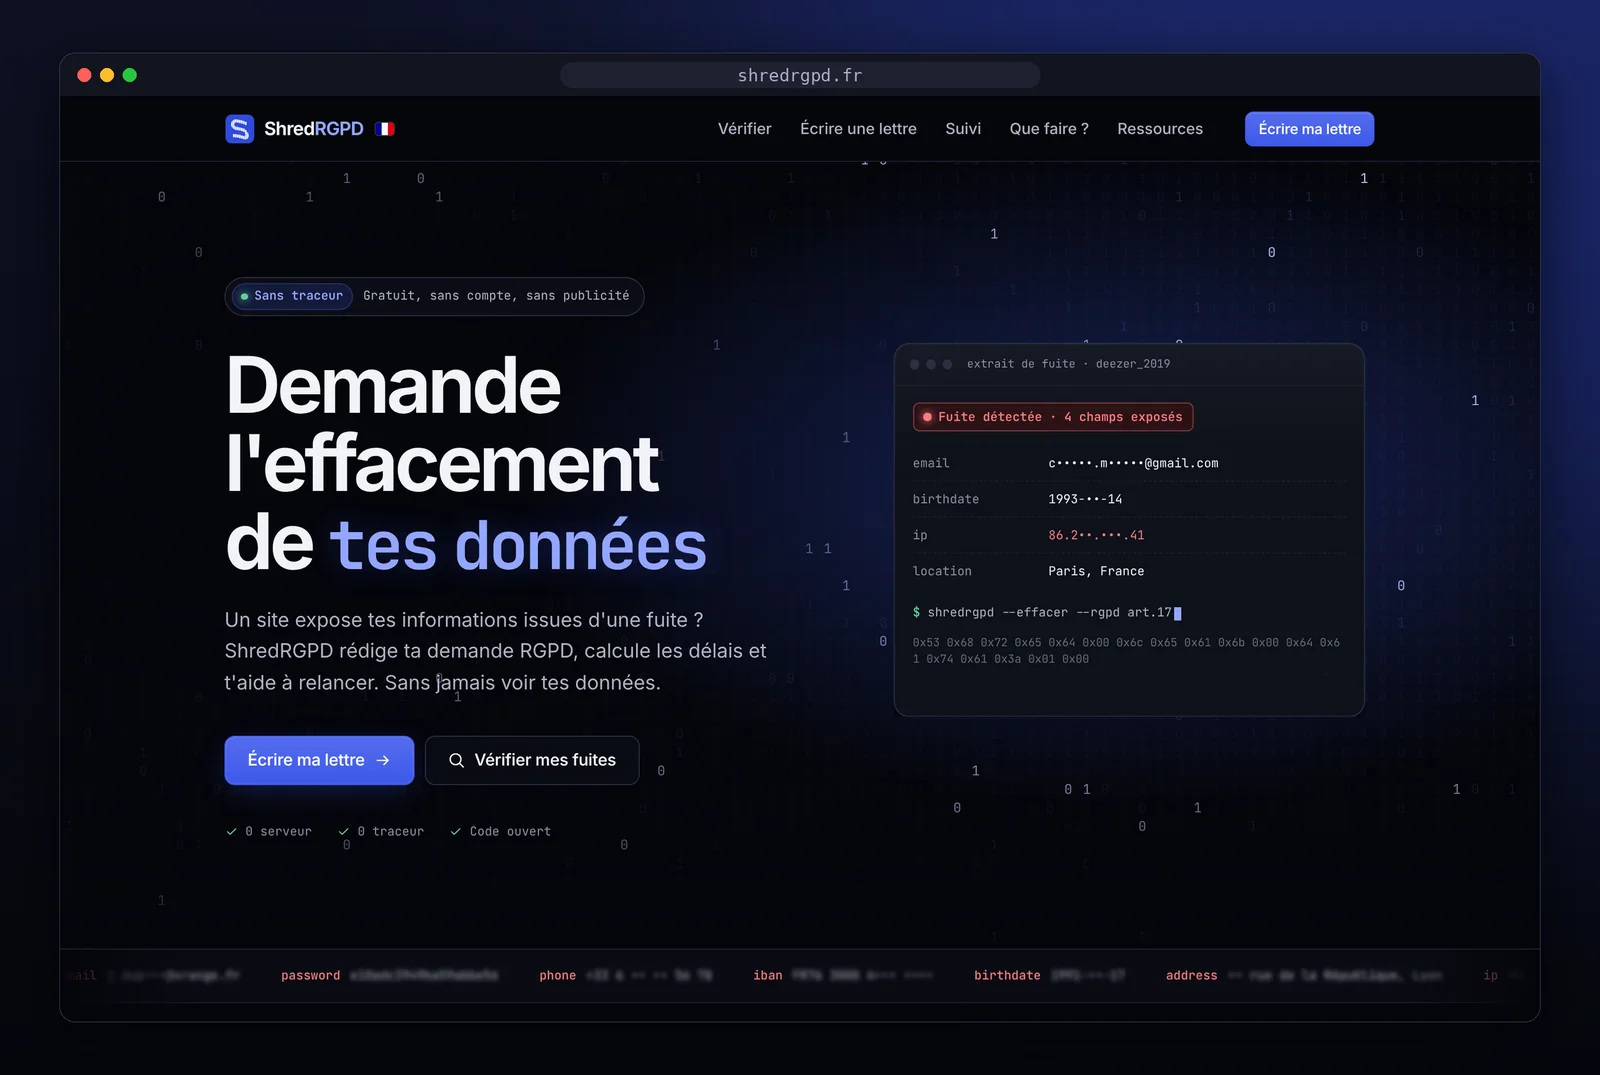
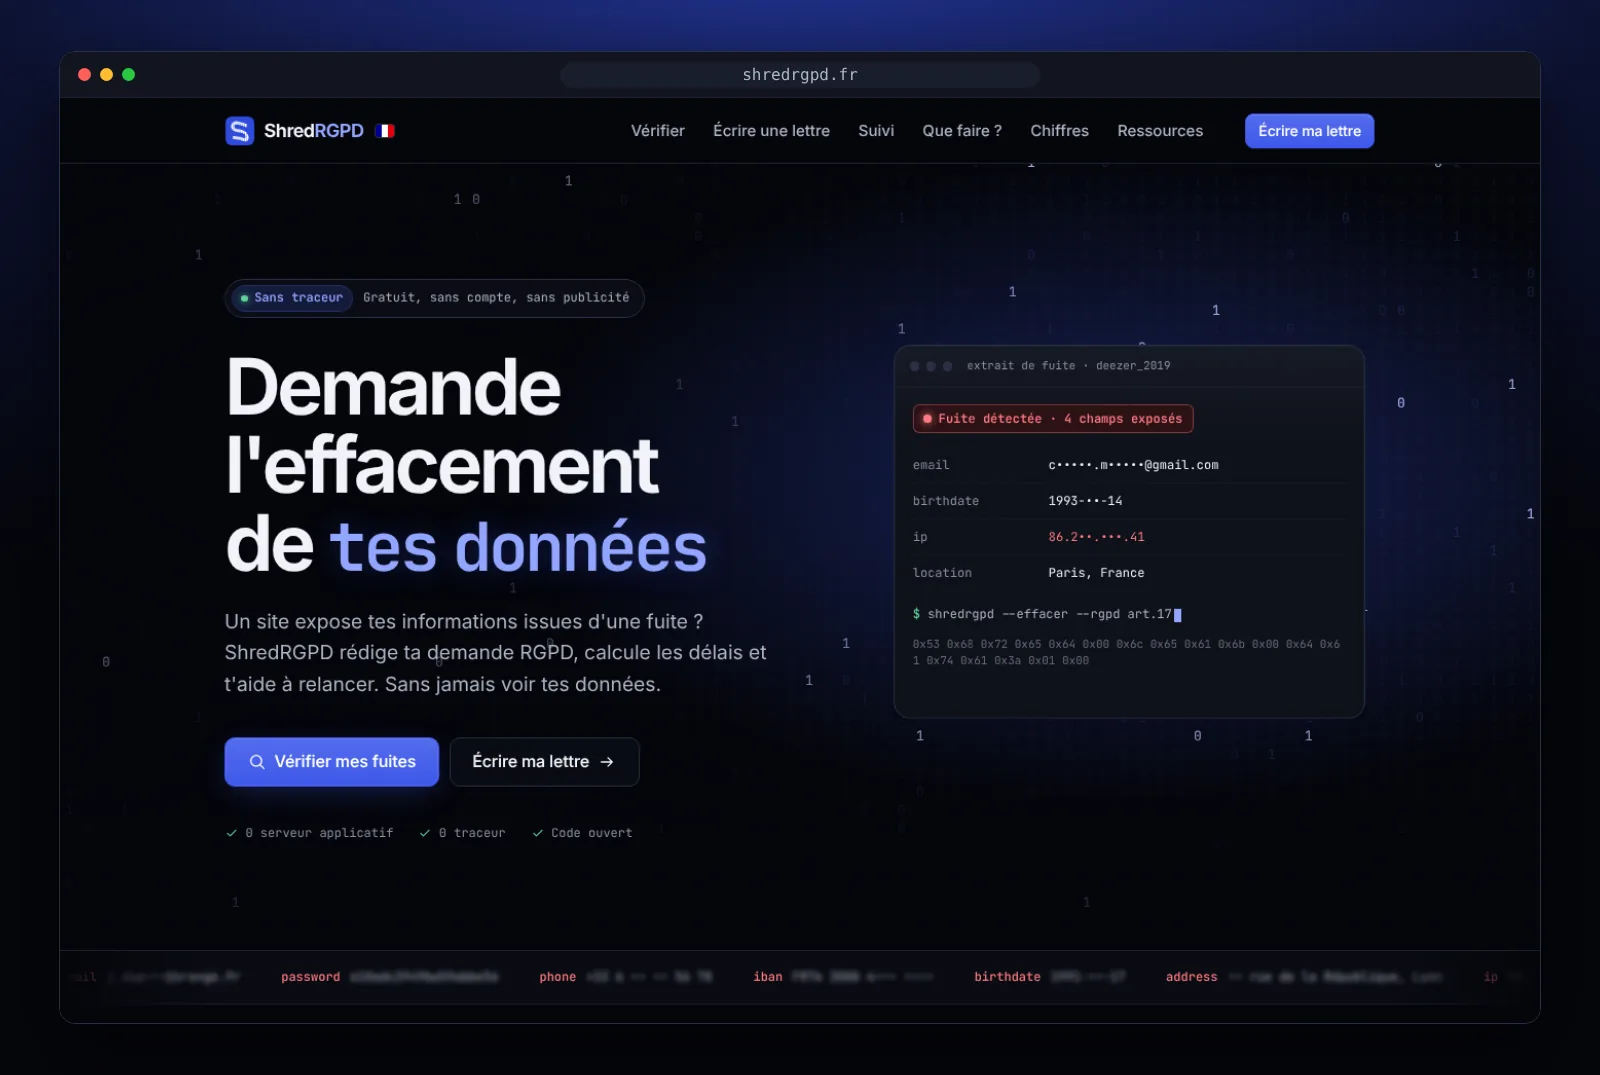
Fuites non vérifiées : pas de lettre en avant ; README à jour
Pages de fuite : quand Have I Been Pwned n'a pas pu confirmer que les
données viennent de l'entreprise nommée (IsVerified: false, aujourd'hui
Pemiblanc), « À qui écrire ? » remplace « Écris à … » : peut-être
personne de responsable, priorité au changement de mots de passe,
lettres en option secondaire. Le plan d'action perd l'étape « écrire
aux entreprises » et la description de la page ne promet plus de
réponse. Les fuites vérifiées ne changent pas. Testé (actionPlan,
breachPages) ; vérifié dans Chromium sur Pemiblanc et Free, axe : 0
violation.

README : section « Les fuites en chiffres » avec capture, page « Suivre
les nouvelles fuites » au lieu du lien vers le XML brut, fuites non
vérifiées, capture de l'accueil refaite (bouton Vérifier en premier,
« 0 serveur applicatif », menu avec Chiffres).

Claude-Session: https://claude.ai/code/session_01XCRyGWH1JpjicupbovZvVj

diff --git a/src/pages/BreachPage.tsx b/src/pages/BreachPage.tsx
@@ -131,26 +131,58 @@ export function BreachPage({ slug }: { slug: string }) {
             </p>
 
             <h2>Que faire maintenant ?</h2>
-            <ActionPlan dataClasses={breach.dataClasses} />
+            <ActionPlan dataClasses={breach.dataClasses} write={breach.verified} />
             <p>
               Un message qui cite la fuite, un appel « de ta banque » ? Vois les bons réflexes sur{' '}
               <a href={href('/que-faire')}>Que faire ?</a>.
             </p>
 
-            <h2>Écris à {breach.title}</h2>
-            <p>
-              Le RGPD te permet de demander à l'entreprise ce qu'elle détient sur toi et ce qui a fuité (articles 15 et
-              34), ou d'effacer tes données (article 17). Elle a un mois pour te répondre (article 12.3).
-            </p>
-            <p className="btn-row">
-              <a className="btn btn--primary" href={href('/lettre', breachLetterQuery(breach, 'acces'))}>
-                Demander ce qui a fuité
-                <Icon name="arrow" size={18} />
-              </a>
-              <a className="btn" href={href('/lettre', breachLetterQuery(breach, 'effacement'))}>
-                Demander l'effacement
-              </a>
-            </p>
+            {breach.verified ? (
+              <>
+                <h2>Écris à {breach.title}</h2>
+                <p>
+                  Le RGPD te permet de demander à l'entreprise ce qu'elle détient sur toi et ce qui a fuité (articles 15
+                  et 34), ou d'effacer tes données (article 17). Elle a un mois pour te répondre (article 12.3).
+                </p>
+                <p className="btn-row">
+                  <a className="btn btn--primary" href={href('/lettre', breachLetterQuery(breach, 'acces'))}>
+                    Demander ce qui a fuité
+                    <Icon name="arrow" size={18} />
+                  </a>
+                  <a className="btn" href={href('/lettre', breachLetterQuery(breach, 'effacement'))}>
+                    Demander l'effacement
+                  </a>
+                </p>
+              </>
+            ) : (
+              <>
+                <h2>À qui écrire ?</h2>
+                <p>
+                  Have I Been Pwned n'a pas pu confirmer que ces données viennent de {breach.domain || breach.title}. Il
+                  n'y a donc peut-être pas d'entreprise responsable à qui écrire : une lettre risque de rester sans
+                  réponse.
+                </p>
+                {breach.dataClasses.includes('Passwords') && (
+                  <p>
+                    La priorité : change le mot de passe de chaque compte où tu utilisais celui qui a fui.{' '}
+                    <a href={href('/verifier', { parcours: 'mot-de-passe' })}>Teste tes mots de passe</a> sans les
+                    confier à personne.
+                  </p>
+                )}
+                <p>
+                  Si tu penses que {breach.domain || breach.title} détient bien tes données, tu peux quand même lui
+                  demander ce qu'il a sur toi (article 15 du RGPD) ou l'effacement (article 17).
+                </p>
+                <p className="btn-row">
+                  <a className="btn" href={href('/lettre', breachLetterQuery(breach, 'acces'))}>
+                    Demander ce qui a fuité
+                  </a>
+                  <a className="btn" href={href('/lettre', breachLetterQuery(breach, 'effacement'))}>
+                    Demander l'effacement
+                  </a>
+                </p>
+              </>
+            )}
             <p className="hint">
               {contact ? (
                 <>

diff --git a/src/lib/actionPlan.ts b/src/lib/actionPlan.ts
@@ -102,8 +102,11 @@ const WRITE: ActionItem = {
   detail: "Elles doivent te répondre dans un délai d'un mois (article 12.3 du RGPD).",
 };
 
-/** Actions à mener pour un ensemble de types de données exposées, sans doublon. */
-export function buildActionPlan(dataClasses: string[]): ActionItem[] {
+/**
+ * Actions à mener pour un ensemble de types de données exposées, sans doublon.
+ * `write: false` retire l'étape « écrire aux entreprises » (fuite non confirmée : peut-être personne à qui écrire).
+ */
+export function buildActionPlan(dataClasses: string[], { write = true } = {}): ActionItem[] {
   if (dataClasses.length === 0) return [];
   const items: ActionItem[] = [];
   for (const rule of RULES) {
@@ -111,7 +114,7 @@ export function buildActionPlan(dataClasses: string[]): ActionItem[] {
       for (const item of rule.items) if (!items.some((i) => i.id === item.id)) items.push(item);
     }
   }
-  items.push(WRITE);
+  if (write) items.push(WRITE);
   return items;
 }
 

diff --git a/src/lib/breachPages.ts b/src/lib/breachPages.ts
@@ -83,7 +83,11 @@ export function breachPageMeta(breach: Breach, slug: string): BreachPageMeta {
   return {
     path: BREACH_PATH_PREFIX + slug,
     title: `Fuite ${breach.title} (${formatMonthFr(breach.date)}) : que faire ? · ShredRGPD`,
-    description: `Fuite de données ${breach.title} du ${formatLongFr(breach.date)} : ${accounts}${types}. Vérifie si tu es concerné et demande à l'entreprise ce qu'elle détient sur toi, avec une lettre RGPD gratuite.`,
+    description: `Fuite de données ${breach.title} du ${formatLongFr(breach.date)} : ${accounts}${types}. ${
+      breach.verified
+        ? "Vérifie si tu es concerné et demande à l'entreprise ce qu'elle détient sur toi, avec une lettre RGPD gratuite."
+        : "Fuite non confirmée par l'entreprise : vérifie si tu es concerné et protège tes comptes."
+    }`,
     ...(breach.addedDate ? { lastmod: breach.addedDate } : {}),
   };
 }

diff --git a/src/components/ActionPlan.tsx b/src/components/ActionPlan.tsx
@@ -4,10 +4,10 @@ import { buildActionPlan, loadDone, PLAN_STORAGE_KEY } from '../lib/actionPlan';
 import { Icon } from './Icon';
 
 /** Plan d'action à cocher, adapté aux données exposées ; progression gardée dans le navigateur. */
-export function ActionPlan({ dataClasses }: { dataClasses: string[] }) {
+export function ActionPlan({ dataClasses, write = true }: { dataClasses: string[]; write?: boolean }) {
   const id = useId();
   const [done, setDone] = useState<string[]>(() => loadDone(readStorage(PLAN_STORAGE_KEY)));
-  const items = buildActionPlan(dataClasses);
+  const items = buildActionPlan(dataClasses, { write });
   if (items.length === 0) return null;
   const count = items.filter((i) => done.includes(i.id)).length;
 

diff --git a/src/lib/actionPlan.test.ts b/src/lib/actionPlan.test.ts
@@ -2,6 +2,11 @@ import { describe, expect, it } from 'vitest';
 import { buildActionPlan, loadDone } from './actionPlan';
 
 describe('buildActionPlan', () => {
+  it("retire l'étape « écrire » sur demande (fuite non confirmée)", () => {
+    expect(buildActionPlan(['Passwords']).map((i) => i.id)).toContain('ecrire');
+    expect(buildActionPlan(['Passwords'], { write: false }).map((i) => i.id)).not.toContain('ecrire');
+  });
+
   it('adapte les actions aux données exposées, sans doublon', () => {
     const ids = buildActionPlan(['Email addresses', 'Passwords', 'Password hints', 'Credit cards']).map((i) => i.id);
     expect(ids).toEqual(['mdp-changer', 'mdp-2fa', 'mdp-unique', 'email-hameconnage', 'banque', 'ecrire']);

diff --git a/src/lib/breachPages.test.ts b/src/lib/breachPages.test.ts
@@ -76,6 +76,12 @@ describe('pages de fuite', () => {
     expect(allBreachPageMeta(CATALOG.breaches).map((m) => m.path)).toHaveLength(4);
   });
 
+  it("ne promet pas de réponse de l'entreprise pour une fuite non vérifiée", () => {
+    const unverified = { ...CATALOG.breaches[0]!, verified: false };
+    expect(breachPageMeta(unverified, 'free').description).toContain("Fuite non confirmée par l'entreprise");
+    expect(breachPageMeta(unverified, 'free').description).not.toContain('demande à l');
+  });
+
   it('formate le mois en abrégé', () => {
     expect(formatMonthFr('2024-10-17')).toBe('oct. 2024');
     expect(formatMonthFr('2023-02-01')).toBe('févr. 2023');

diff --git a/CLAUDE.md b/CLAUDE.md
@@ -35,7 +35,7 @@ npx prettier --write "src/**/*.{ts,tsx}"   # mise en forme (.prettierrc)
 - `src/security.ts` : source unique de la CSP. `vite.config.ts` l'injecte en `<meta>`, `vercel.json` l'envoie en en-tête HTTP (avec `frame-ancestors`) ; `security.test.ts` vérifie qu'elles restent alignées.
 - Page « Les fuites en chiffres » (`src/pages/Stats.tsx`, `/chiffres`), tableau de bord interactif : filtres Année et Donnée exposée en tête (aussi par clic sur une colonne d'année ou une ligne de données, second clic pour annuler ; chaque graphique tient compte de l'autre filtre, pas du sien), gardés dans le fragment (`#annee=2024&donnee=Passwords`, `replaceState`, valeurs inconnues ignorées, `#contenu` respecté) ; chiffres clés, fuites par année avec infobulle au survol et au clavier (CSS seul), données les plus exposées, plus grosses fuites (liens vers leurs pages), tableau triable de toutes les fuites (colonne des données masquée sous 640 px), délai médian avant l'arrivée dans HIBP, et les limites de lecture (« française » estimée, seules les fuites connues de HIBP, des comptes et non des personnes). Graphiques en HTML (texte réel) et barres en SVG décoratif, tailles en attributs (la CSP interdit les styles en ligne), une série par graphique en `--brand-hover` (contraste ≥ 3:1 vérifié), blocs sans cadre. Liens depuis le menu (« Chiffres »), l'accueil (sous les dernières fuites) et le pied de page. Pré-rendue sans filtre. Audit axe : 0 violation le 7 octobre 2026, sans filtre, filtrée et sans résultat, à 1440 et 390 px. Pour la développer en local sans accès à HIBP, le catalogue peut être repris du déploiement Vercel (fichier `assets/breaches.generated-*.js`).
 - Page « Suivre les nouvelles fuites » (`src/pages/NewBreaches.tsx`, `/nouvelles-fuites`) : ce qu'est un flux, adresse de `fuites.xml` à copier, quelques lecteurs gratuits (Feedly, Inoreader, NetNewsWire, Thunderbird, sans lien avec ShredRGPD), rappel du bouton « Me signaler les nouvelles fuites » de Vérifier, dernières fuites françaises. Le pied de page, l'accueil et les pages de fuite y mènent au lieu d'ouvrir le XML brut ; `fuites.xml` reste lié depuis la page et dans chaque `<head>`. Pas de feuille XSLT (Google a annoncé vouloir retirer XSLT de Chrome).
-- Pages de fuite (`src/pages/BreachPage.tsx`) : une par fuite française avec un domaine (`pageBreaches` ; les compilations sans entreprise, comme French Citizens, en sont exclues), adresse tirée du titre (`/fuite/free`, nom HIBP en cas de doublon). `vite.config.ts` lit le catalogue au build : une page HTML par fuite (`fuite/free.html`) ajoutée au sitemap, le flux Atom `fuites.xml` (lien dans chaque `<head>`, l'accueil et le pied de page) et les modules virtuels `virtual:catalog-summary` (chiffres et 6 dernières fuites françaises pour l'accueil) et `virtual:breach-stats` (fiches légères des fuites pour la page `/chiffres`, qui calcule ses chiffres dans le navigateur), calculés au build sans charger tout le catalogue (types dans `src/virtual.d.ts`). Sans catalogue : ni pages, ni flux, bloc de l'accueil masqué.
+- Pages de fuite (`src/pages/BreachPage.tsx`) : une par fuite française avec un domaine. Fuite non vérifiée par HIBP (`IsVerified: false`, aujourd'hui Pemiblanc seule) : « À qui écrire ? » remplace « Écris à … » (peut-être personne de responsable, priorité aux mots de passe, lettres en option secondaire), plan d'action sans l'étape « écrire » (`buildActionPlan(…, { write: false })`), description de page sans promesse de réponse. Pemiblanc reste dans les pages et les chiffres (choix de l'auteur, 7 octobre 2026) (`pageBreaches` ; les compilations sans entreprise, comme French Citizens, en sont exclues), adresse tirée du titre (`/fuite/free`, nom HIBP en cas de doublon). `vite.config.ts` lit le catalogue au build : une page HTML par fuite (`fuite/free.html`) ajoutée au sitemap, le flux Atom `fuites.xml` (lien dans chaque `<head>`, l'accueil et le pied de page) et les modules virtuels `virtual:catalog-summary` (chiffres et 6 dernières fuites françaises pour l'accueil) et `virtual:breach-stats` (fiches légères des fuites pour la page `/chiffres`, qui calcule ses chiffres dans le navigateur), calculés au build sans charger tout le catalogue (types dans `src/virtual.d.ts`). Sans catalogue : ni pages, ni flux, bloc de l'accueil masqué.
 - `src/seo.ts` : titre, description et aperçu de chaque page (testé : une entrée par route de `PUBLIC_ROUTES`), données structurées JSON-LD de l'accueil (`WebSite` et `WebApplication` gratuite ; bloc de données, non exécuté, donc compatible avec la CSP) et `<lastmod>` des pages de fuite dans le sitemap (date d'ajout à HIBP). Le plugin `seo` de `vite.config.ts` génère une page HTML par adresse (`verifier.html`…, servies sur `/verifier` grâce à `cleanUrls` dans `vercel.json`), un `404.html` non indexé, `robots.txt` et `sitemap.xml`. `public/og.png` est l'image d'aperçu 1200×630.
 - Pré-rendu : `npm run build` lance `scripts/prerender.mjs` après `vite build`. Il charge `src/prerender.tsx` avec Vite (`renderToString` de l'application, chemin fixé par `setServerLocation` du routeur, catalogue chargé avant) et écrit le contenu de chaque page dans son fichier HTML, à la place de `<div id="root"></div>`, pour les moteurs qui exécutent mal le JavaScript. `/suivi` n'est pas pré-rendu (contenu propre au navigateur). Les attributs `style` sont retirés du HTML pré-rendu : la CSP (`style-src 'self'`) les bloquerait. `main.tsx` remplace ce contenu par l'application (`createRoot`, pas d'hydratation) ; sur une page de fuite, il charge d'abord le catalogue (`loadedBreachCatalog`) pour ne pas afficher « Chargement… ». Testé dans `src/prerender.test.ts` ; vérifié dans Chromium : contenu lisible sans JavaScript, aucune erreur ni violation CSP avec.
 - `.github/workflows/refresh-breaches.yml` : redéploiement quotidien (5 h 17 UTC) pour rafraîchir le catalogue HIBP, via le secret GitHub `VERCEL_DEPLOY_HOOK` (à créer par l'auteur ; sans lui, le workflow ne fait rien). Injecte aussi au build la CSP (`connect-src https://api.pwnedpasswords.com` seulement, `font-src 'self'`) et désactive l'intégration des fichiers en `data:` (`assetsInlineLimit: 0`), sinon la CSP bloque les petites polices.
@@ -68,7 +68,7 @@ Fait :
 - pages ressources et à propos, logo, animation d'accueil (fiche et aperçu de recherche avec de vraies fuites du catalogue HIBP : Deezer, Free, La Poste Mobile, ActMobile ; personne fictive, valeurs masquées) ;
 - vidéo : une seule vidéo de présentation (principe en 45 s, sans la démo), en lecture automatique et en boucle sur l'accueil, avec contrôles sur la page Ressources ;
 - accueil « Les dernières fuites en France » (vrais chiffres du catalogue), pages par fuite française, flux Atom, lien « Une erreur, une idée ? » vers l'auteur ; suivi : demande satisfaite mise en avant, relance qui garde le contexte « violation », y compris pour une demande ajoutée à la main (choix « Situation » du formulaire, libellés partagés `CONTEXT_LABELS` de `letters.ts`, affiché sur la fiche) ; les demandes ajoutées avant le 7 octobre 2026 sans contexte repartent en « exposition » ;
-- CI GitHub Actions ; déploiement Vercel depuis `main` (`vercel.json`). Mise à jour quotidienne du catalogue en service (hebdomadaire jusqu'au 6 octobre 2026) : secret `VERCEL_DEPLOY_HOOK` créé, premier lancement manuel le 6 octobre 2026 (redéploiement de production, log `[fetch-breaches] 1039 fuites enregistrées dont 30 françaises`). GitHub Pages abandonné au profit de Vercel. Dépôt public depuis le 6 octobre 2026 ; `README.md` présente le projet avec des captures du site dans `docs/images/` (WebP, personne et demandes fictives, vrais logos des fuites).
+- CI GitHub Actions ; déploiement Vercel depuis `main` (`vercel.json`). Mise à jour quotidienne du catalogue en service (hebdomadaire jusqu'au 6 octobre 2026) : secret `VERCEL_DEPLOY_HOOK` créé, premier lancement manuel le 6 octobre 2026 (redéploiement de production, log `[fetch-breaches] 1039 fuites enregistrées dont 30 françaises`). GitHub Pages abandonné au profit de Vercel. Dépôt public depuis le 6 octobre 2026 ; `README.md` présente le projet avec des captures du site dans `docs/images/` (WebP 1600×1075 dans un cadre de fenêtre, personne et demandes fictives, vrais logos des fuites) ; `accueil.webp` refaite et `chiffres.webp` ajoutée le 7 octobre 2026 (Chromium 1440×900, sans logo à télécharger) ; les autres captures montrent l'ancien menu, sans « Chiffres ».
 - Ne jamais ajouter `@vercel/analytics` ni `@vercel/speed-insights` (règle 1).
 
 Vérifié dans Chromium (Playwright) : rendu bureau 1440 px et mobile 390 px, clair, sombre et animations réduites, sans débordement horizontal ; aucune violation CSP ni requête externe ; contrastes des tokens ≥ 4,5:1 (clair, sombre, `.theme-dark`).

diff --git a/README.md b/README.md
@@ -98,9 +98,22 @@ Chaque fuite française a sa page, par exemple [`/fuite/free`](https://shredrgpd
 - une lettre pré-remplie ;
 - une image de partage avec le logo de l'entreprise.
 
-Un [flux RSS](https://shredrgpd.fr/fuites.xml) annonce les nouvelles fuites. La liste se met à jour chaque jour.
+Quand Have I Been Pwned n'a pas pu confirmer qu'une fuite vient de l'entreprise nommée, la page le dit : il n'y a peut-être personne à qui écrire, alors elle met en avant le changement de mots de passe plutôt qu'une lettre.
+
+Pour être prévenu des nouvelles fuites françaises, sans compte ni e-mail, abonne-toi au flux depuis la page [Suivre les nouvelles fuites](https://shredrgpd.fr/nouvelles-fuites). La liste se met à jour chaque jour.
 
 <p align="center"><img src="docs/images/fuite.webp" alt="Page de la fuite Free" width="820"></p>
+
+### Les fuites en chiffres
+
+La page [Chiffres](https://shredrgpd.fr/chiffres) rassemble les fuites françaises connues de Have I Been Pwned :
+- les chiffres clés : nombre de fuites, fuites de plus d'un million de comptes, part avec des données bancaires, délai avant leur arrivée dans le catalogue ;
+- les fuites par année et les données les plus exposées, à filtrer d'un clic ;
+- les plus grosses fuites et le tableau de toutes les fuites, avec un lien vers chaque page.
+
+Les filtres restent dans l'adresse, pour partager une vue. La page rappelle aussi les limites de ces chiffres : « française » est une estimation, seules les fuites connues de Have I Been Pwned comptent, et ce sont des comptes, pas des personnes.
+
+<p align="center"><img src="docs/images/chiffres.webp" alt="Page Chiffres : chiffres clés, fuites par année et infobulle des fuites de 2024" width="820"></p>
 
 ### Sur mobile aussi
 
@@ -127,7 +140,7 @@ ShredRGPD est un site statique : il n'a pas de serveur à lui, et donc rien où 
 ```text
 src/
 ├── lib/          logique pure et testée : lettres, délais, fuites, k-anonymat…
-├── pages/        Accueil, Vérifier, Lettre, Suivi, Que faire ?, pages de fuite…
+├── pages/        Accueil, Vérifier, Lettre, Suivi, Que faire ?, Chiffres, pages de fuite…
 ├── components/   interface
 ├── data/         vidéos, contacts DPO et sites connus (sourcés et datés)
 └── styles/       thème sombre, jetons de couleur
@@ -151,7 +164,7 @@ Avant chaque commit :
 npm run typecheck && npm run lint && npm test && npm run build
 ```
 
-Sans accès réseau, le build continue sans catalogue : la page Vérifier affiche alors « liste indisponible ».
+Sans accès réseau, le build continue sans catalogue : la page Vérifier affiche alors « liste indisponible », et la page Chiffres « chiffres indisponibles ».
 
 ## Déployer ta copie
 
